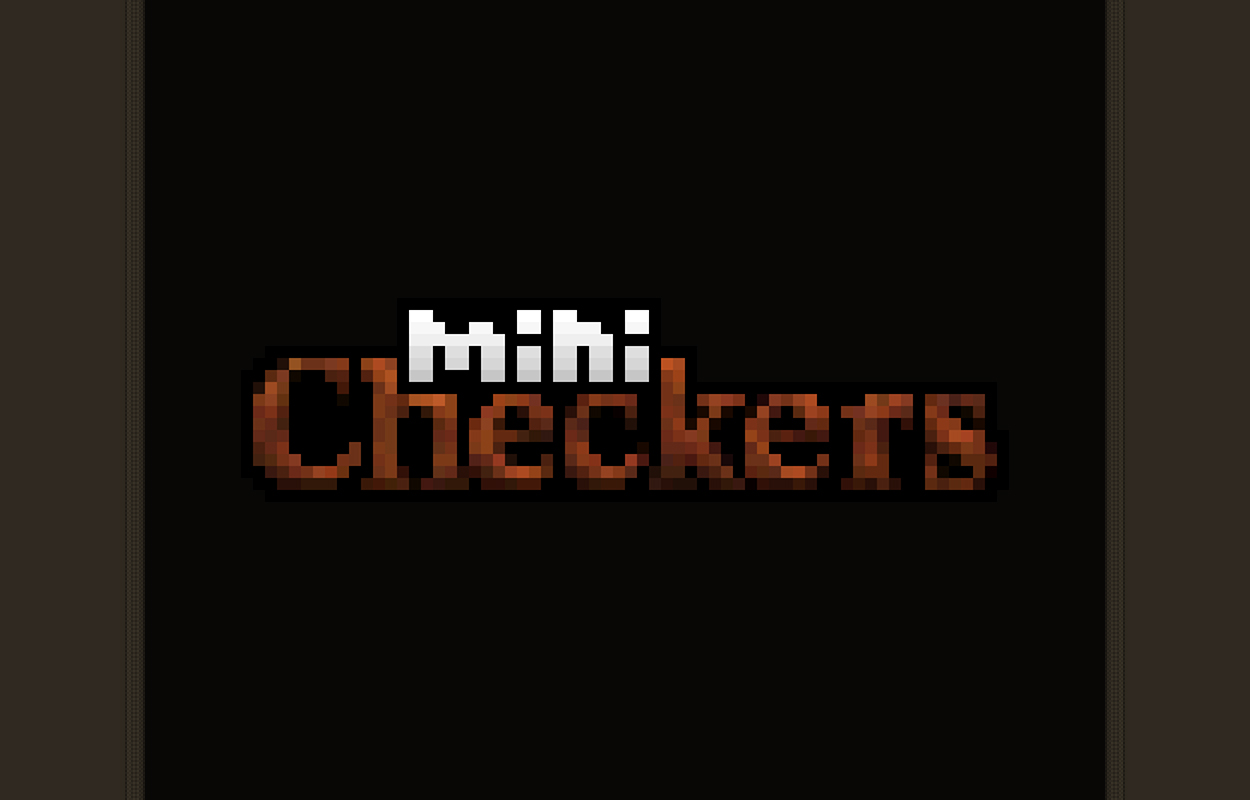
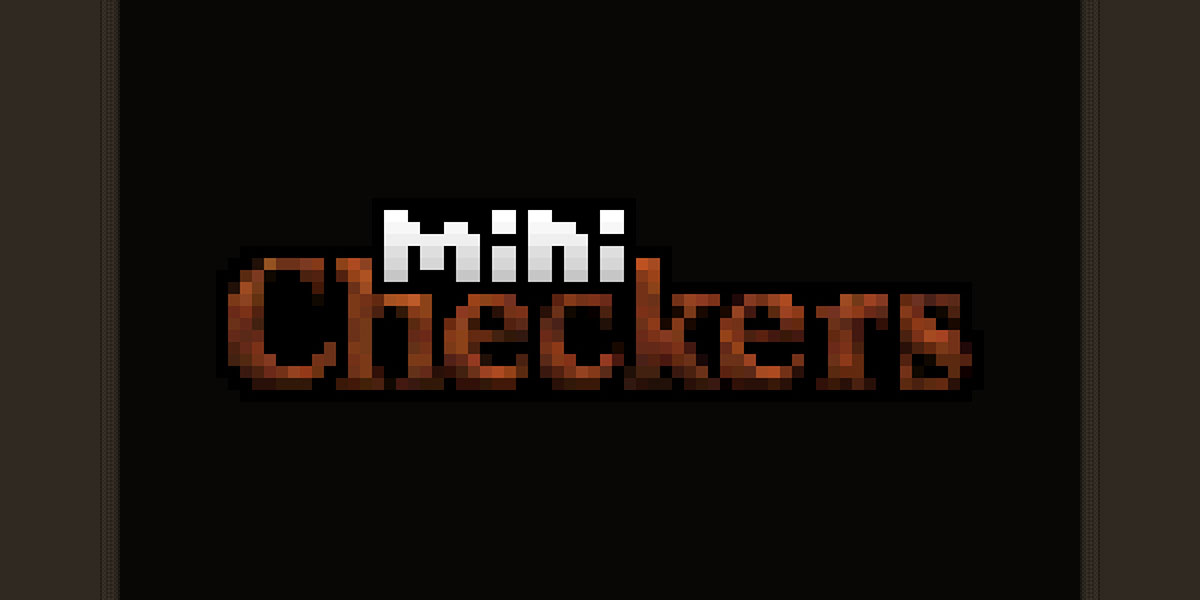
png to webp conversion

Changed region(s): [[0.185, 0.33, 0.8325, 0.66], [0.8633, 0.0, 0.925, 1.0], [0.0925, 0.0, 0.1233, 1.0]]

diff --git a/projects/minicheckers/style.css b/projects/minicheckers/style.css
@@ -8,8 +8,6 @@
   font-family: sans-serif;
 }
 
-.preload {width: 0px}
-
 html {
   background-color: #22201b;
 }
@@ -19,7 +17,7 @@ body {
   margin: 0 auto;
   padding: 50px 0px;
   width: 1000px;
-  background-image: url("res/img/PageBackground.png");
+  background-image: url("res/img/PageBackground.webp");
   background-position: center top;
   background-size: auto;
   background-repeat: repeat-y;
@@ -69,9 +67,9 @@ body {
   padding: 0px 20px 8px 20px;
   text-shadow: 0px 4px 0px rgba(0,0,0,0.25);
   background-color: #258649;
-  background-image: url("res/img/ButtonBackgroundActive.png");
+  background-image: url("res/img/ButtonBackgroundActive.webp");
   border: 1px solid #205c36;
-  border-image: url("res/img/ButtonBorderActive.png") 48 / 8px round;
+  border-image: url("res/img/ButtonBorderActive.webp") 48 / 8px round;
   user-select: none;
   pointer-events: none;
 }
@@ -111,8 +109,8 @@ body {
   font-size: 10px;
   text-transform: uppercase;
   background-color: #c0b8af;
-  background-image: url("res/img/ButtonBackground.png");
-  border-image: url("res/img/ButtonBorder.png") 48 / 8px round;
+  background-image: url("res/img/ButtonBackground.webp");
+  border-image: url("res/img/ButtonBorder.webp") 48 / 8px round;
   text-shadow: 0px 2px 0px rgba(0,0,0,0.25);
   cursor: pointer;
 }
@@ -124,15 +122,15 @@ body {
 #btn-container button:hover {
   color: #24211e;
   background-color: #9c948b;
-  background-image: url("res/img/ButtonBackgroundHover.png");
-  border-image: url("res/img/ButtonBorderHover.png") 48 / 8px round;
+  background-image: url("res/img/ButtonBackgroundHover.webp");
+  border-image: url("res/img/ButtonBorderHover.webp") 48 / 8px round;
 }
 
 #btn-container button:active {
   color: #dbd0c2;
   background-color: #258649;
-  background-image: url("res/img/ButtonBackgroundActive.png");
-  border-image: url("res/img/ButtonBorderActive.png") 48 / 8px round;
+  background-image: url("res/img/ButtonBackgroundActive.webp");
+  border-image: url("res/img/ButtonBorderActive.webp") 48 / 8px round;
 }
 
 board-container {
@@ -143,7 +141,7 @@ board-container {
   padding: 20px;
   margin: 0 auto;
   overflow: hidden;
-  background-image: url("res/img/BoardBackground.png");
+  background-image: url("res/img/BoardBackground.webp");
   background-size: cover;
   background-position: center;
   background-repeat: no-repeat;
@@ -159,7 +157,7 @@ board-container:before {
   top: 0;
   left: 0;
   z-index: 6;
-  background-image: url("res/img/BoardForeground.png");
+  background-image: url("res/img/BoardForeground.webp");
   background-position: center;
   background-size: cover;
   background-repeat: no-repeat;
@@ -172,7 +170,7 @@ board-container grid {
   display: inline-block;
   width: 12.5%;
   height: 12.5%;
-  background-image: url("res/img/GameSprites.png");
+  background-image: url("res/img/GameSprites.webp");
   background-position: -64px 0;
   background-size: cover;
   background-repeat: no-repeat;
@@ -201,7 +199,7 @@ board-container piece:hover:before {
   width: 100%;
   height: 100%;
   z-index: 5;
-  background-image: url("res/img/GameSprites.png");
+  background-image: url("res/img/GameSprites.webp");
   background-position: center 0;
   background-position: center;
   background-size: cover;
@@ -218,7 +216,7 @@ board-container piece.selected:before {
   width: 100%;
   height: 100%;
   z-index: 5;
-  background-image: url("res/img/GameSprites.png");
+  background-image: url("res/img/GameSprites.webp");
   background-position: -192px 0;
   background-size: cover;
   background-repeat: no-repeat;
@@ -234,7 +232,7 @@ board-container grid:not(grid.active):hover:before {
   width: 100%;
   height: 100%;
   z-index: 5;
-  background-image: url("res/img/GameSprites.png");
+  background-image: url("res/img/GameSprites.webp");
   background-position: -128px 0;
   background-size: cover;
   background-repeat: no-repeat;
@@ -252,7 +250,7 @@ board-container grid:nth-of-type(32) ~ grid:nth-of-type(-2n+40),
 board-container grid:nth-of-type(40) ~ grid:nth-of-type(-2n+47),
 board-container grid:nth-of-type(48) ~ grid:nth-of-type(-2n+56),
 board-container grid:nth-of-type(56) ~ grid:nth-of-type(-2n+63) {
-  background-image: url("res/img/GameSprites.png");
+  background-image: url("res/img/GameSprites.webp");
   background-position: 0 0;
 }
 
@@ -276,22 +274,22 @@ board-container grid piece.select:before {
 }
 
 board-container grid piece[data-ptyp = "black"] {
-  background-image: url("res/img/GameSprites.png");
+  background-image: url("res/img/GameSprites.webp");
   background-position: -448px 0;
 }
 
 board-container grid piece[data-ptyp = "white"] {
-  background-image: url("res/img/GameSprites.png");
+  background-image: url("res/img/GameSprites.webp");
   background-position: -512px 0;
 }
 
 board-container grid piece[data-ptyp = "black"][data-isking = "true"] {
-  background-image: url("res/img/GameSprites.png");
+  background-image: url("res/img/GameSprites.webp");
   background-position: -320px 0;
 }
 
 board-container grid piece[data-ptyp = "white"][data-isking = "true"] {
-  background-image: url("res/img/GameSprites.png");
+  background-image: url("res/img/GameSprites.webp");
   background-position: -384px 0;
 }
 
@@ -302,7 +300,7 @@ message-box {
   width: calc(800px - 32px);
   padding: 32px 16px;
   border: 1px solid #2e2b23;
-  border-image: url("res/img/BorderImage.png") 48 / 8px round;
+  border-image: url("res/img/BorderImage.webp") 48 / 8px round;
   background: #1d1b18;
   overflow: hidden;
   clear: both;
@@ -350,7 +348,7 @@ event-list {
   min-height: 8rem;
   max-height: 8rem;
   border: 1px solid #2e2b23;
-  border-image: url("res/img/BorderImage.png") 48 / 8px round;
+  border-image: url("res/img/BorderImage.webp") 48 / 8px round;
   background: #1d1b18;
   clear: both;
 }
@@ -366,7 +364,7 @@ event-list label {
   left: 16px;
   color: #dbd0c2;
   text-shadow: 0px 1px 0px rgba(0,0,0,.25);
-  border-image: url("res/img/BorderImage.png") 48 / 8px round;
+  border-image: url("res/img/BorderImage.webp") 48 / 8px round;
   background: #1d1b18;
   overflow: hidden;
   clear: both;
@@ -448,8 +446,8 @@ event-list event.update {
   top: 20px;
   height: calc(512px - 32px);
   border: 1px solid #2e2b23;
-  border-image: url("res/img/BorderImage.png") 48 / 8px round;
-  background-image: url("res/img/ScoreBackground.png");
+  border-image: url("res/img/BorderImage.webp") 48 / 8px round;
+  background-image: url("res/img/ScoreBackground.webp");
   background-position: center;
   background-size: 32px;
   padding: 16px;
@@ -479,11 +477,11 @@ event-list event.update {
 }
 
 .piece.black {
-  background-image: url("res/img/PieceBlackScore.png");
+  background-image: url("res/img/PieceBlackScore.webp");
 }
 
 .piece.white {
-  background-image: url("res/img/PieceWhiteScore.png");
+  background-image: url("res/img/PieceWhiteScore.webp");
 }
 
 .scoreboard-title {
@@ -527,7 +525,7 @@ event-list event.update {
   height: 24px;
   bottom: -30px;
   left: 0;
-  background-image: url("res/img/UserTurn.png");
+  background-image: url("res/img/UserTurn.webp");
   background-size: contain;
   background-position: center;
   background-repeat: no-repeat;
@@ -561,7 +559,7 @@ event-list event.update {
   top: -24px;
   transform: translateX(-50%);
   text-shadow: 0px 1px 0px rgba(0,0,0,.25);
-  border-image: url("res/img/BorderImage.png") 48 / 8px round;
+  border-image: url("res/img/BorderImage.webp") 48 / 8px round;
   background: #1d1b18;
   overflow: hidden;
   clear: both;

diff --git a/projects/minicheckers/index.html b/projects/minicheckers/index.html
@@ -4,17 +4,20 @@
   <meta name="viewport" content="width=device-width, initial-scale=1">
   <meta charset="UTF-8">
   <title>MiniCheckers</title>
+  <link rel="preload" href="res/img/GameSprites.webp" as="image">
+  <link rel="preload" href="res/img/GameLogo.webp" as="image">
+  <link rel="preload" href="main.js" as="script">
   <link rel="preload" href="style.css" as="style">
-  <link rel="preload" href="main.js?version=1.1" as="script">
-  <link rel="stylesheet" type="text/css" href="style.css"/>
-  <link rel="shortcut icon" type="image/png" href="favicon.png"/>
+  <script type="text/javascript" src="main.js?version=1.1.1" defer></script>
+  <link rel="stylesheet" type="text/css" href="style.css">
+  <link rel="shortcut icon" type="image/png" href="favicon.png">
   <meta property="og:type" content="website">
   <meta property="og:title" content="MiniCheckers">
-  <meta property="og:site_name" content="zachfetters.design/projects/minicheckers">
+  <meta property="og:site_name" content="MiniCheckers">
   <meta property="og:url" content="https://zachfetters.design/projects/minicheckers">
   <meta property="og:image" content="https://zachfetters.design/projects/minicheckers/res/img/SEOCover.jpg">
-  <meta property="og:image:height" content="800">
-  <meta property="og:image:width" content="1250">
+  <meta property="og:image:height" content="600">
+  <meta property="og:image:width" content="1200">
   <meta property="og:image:type" content="image/jpeg">
   <meta name="twitter:card" content="summary_large_image">
   <meta name="twitter:site" content="@zachary_fetters">
@@ -23,12 +26,9 @@
   <meta name="twitter:image" content="https://zachfetters.design/projects/minicheckers/res/img/SEOCover.jpg">
 </head>
 <body>
-  <!--Image preloading, the easy way-->
-  <img src="res/img/GameSprites.png" class="preload"/>
-
   <div id="logo-container">
     <span id="version"></span>
-    <img src="res/img/GameLogo.png" class="logo"/>
+    <img src="res/img/GameLogo.webp" class="logo"/>
   </div>
 
   <div id="game-container">
@@ -98,8 +98,8 @@
     <h3>Version 1.1.1</h3>
     <ul>
       <li>Compiled all game image files to one spritesheet to reduce load times and remove delayed image load upon change.</li>
+      <li>Various optimizations.</li>
     </ul>
   </message-box>
-  <script type="text/javascript" src="main.js?version=1.1.1"></script>
 </body>
 </html>
